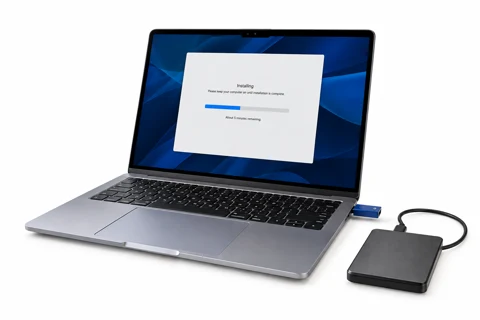
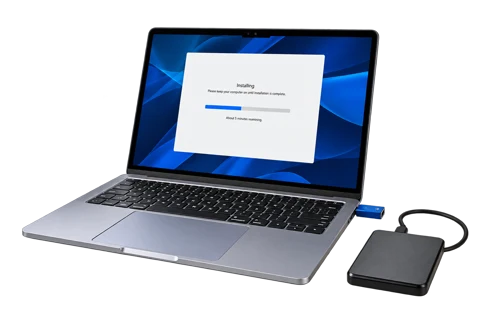
Aplica transparência às imagens dos serviços

diff --git a/src/content.js b/src/content.js
@@ -7,7 +7,7 @@ export const services = [
     title: "Conserto de computadores e notebooks",
     short: "Conserto",
     image: "conserto-foto.webp",
-    alt: "Imagem ilustrativa de notebook aberto com ferramentas de diagnóstico sobre fundo branco",
+    alt: "Imagem ilustrativa de notebook aberto com ferramentas de diagnóstico",
     description:
       "Não liga, está sem imagem ou apareceu um problema? Vamos entender o que aconteceu.",
     intro:

diff --git a/docs/materiais-e-pendencias.md b/docs/materiais-e-pendencias.md
@@ -1,8 +1,8 @@
 # Materiais e revisão editorial
 
-## Imagens dos serviços: fundo branco
+## Imagens dos serviços: equipamentos recortados
 
-As seis imagens dos serviços foram revisadas para manter os equipamentos realistas isolados sobre fundo branco, sem ambientes, bancadas, plantas ou móveis. As versões responsivas de 480, 800 e 1200 pixels recebem o mesmo tratamento. São imagens ilustrativas geradas, não registros de trabalhos ou produtos em estoque.
+As seis imagens dos serviços possuem fundo transparente, sem ambientes, bancadas, plantas ou móveis. Os cards e as aberturas das páginas aplicam uma sombra suave ao contorno dos equipamentos para sugerir flutuação. As versões responsivas de 480, 800 e 1200 pixels preservam o canal alfa. São imagens ilustrativas geradas, não registros de trabalhos ou produtos em estoque.
 
 ## Materiais conferidos
 
